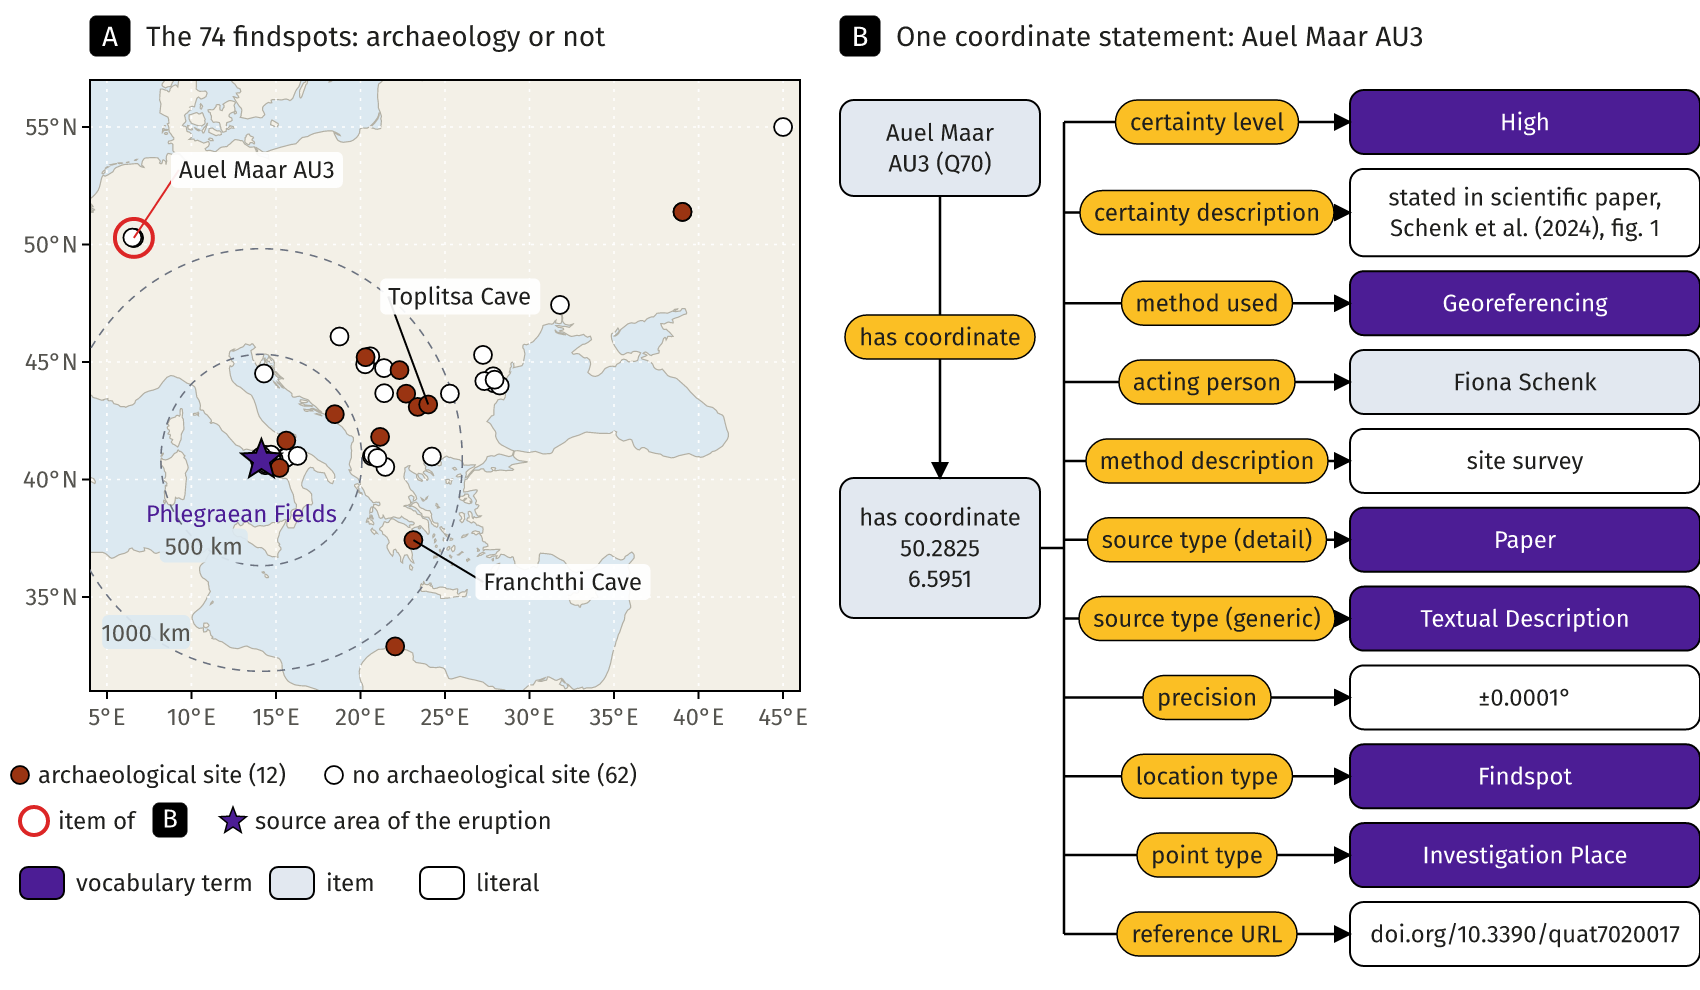
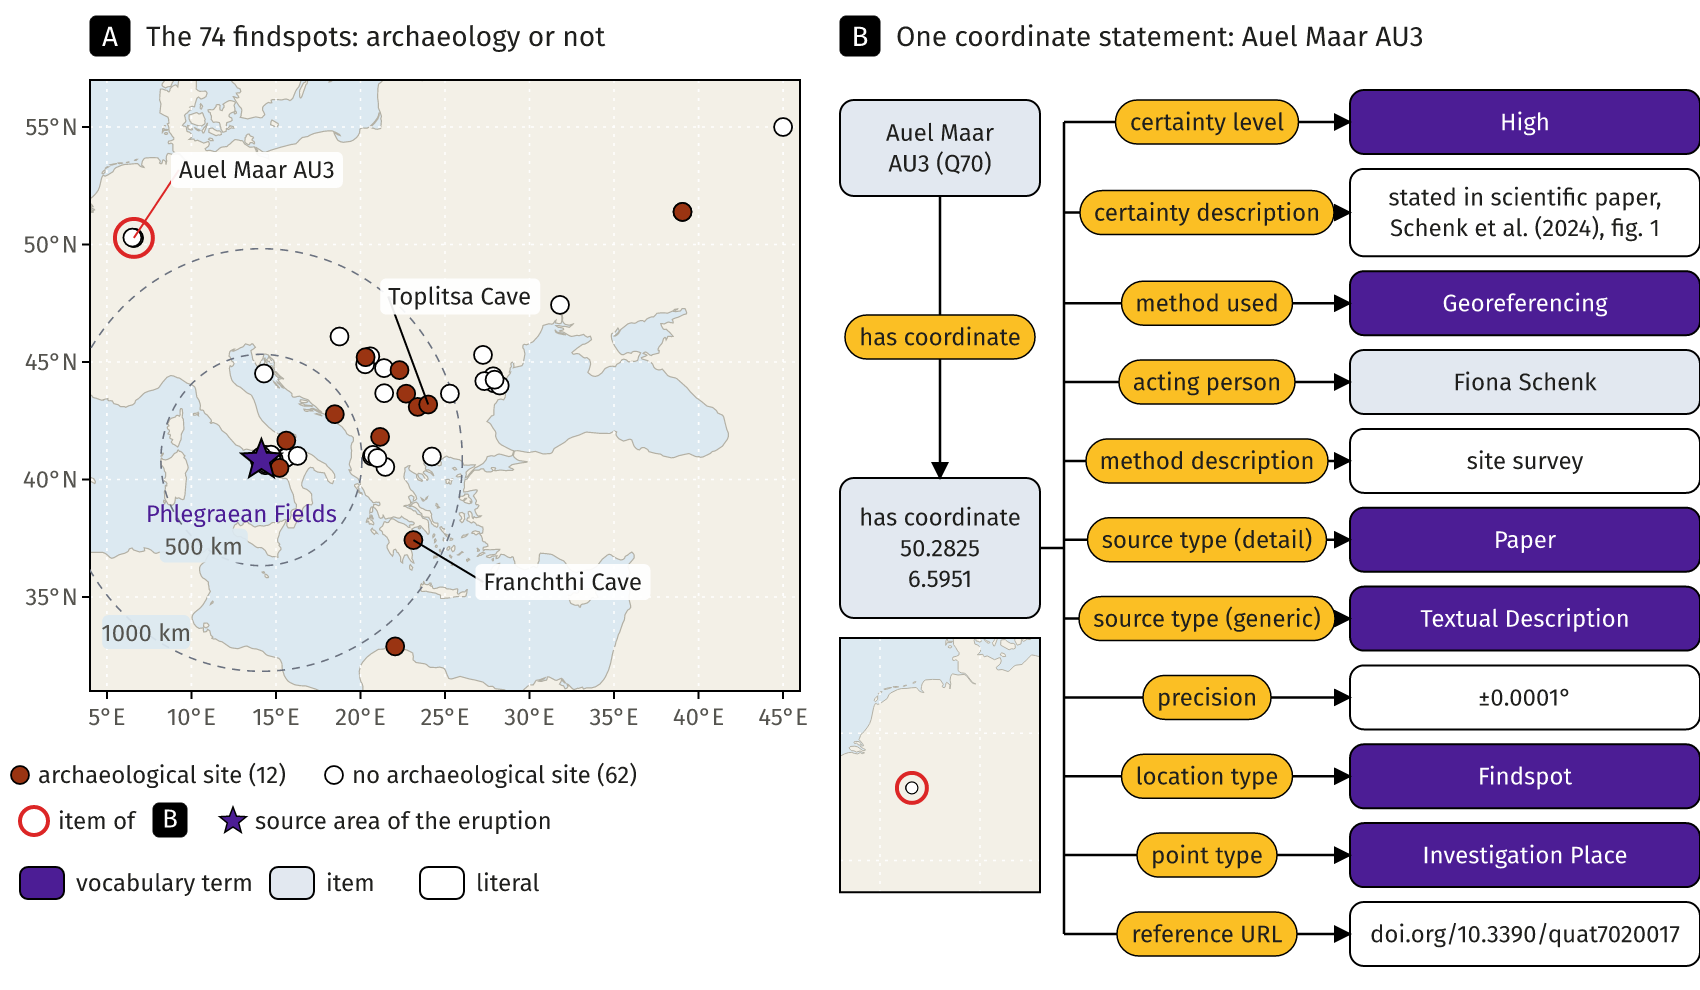
deRSE26: Fig. 4 minimap, Fig. 6 place taxonomy, STYLE.md (graphic concept)
Claude-Session: https://claude.ai/code/session_0145BdeBL6JEDb3HE12Py9VZ

Changed region(s): [[0.4676, 0.6364, 0.6235, 0.7576], [0.53, 0.7879, 0.5612, 0.8182]]

diff --git a/deRSE26/figures/figs.py b/deRSE26/figures/figs.py
@@ -186,6 +186,14 @@ def fig4():
     nm = it['labels']['en']['value']; part = nm.rsplit(' ', 1)
     f.box(cx0, 100, cw, 96, INST, [part[0], f'{part[1]} ({it["id"]})'], size=MIN_TYPE)
     f.box(cx0, cy_mid - 70, cw, 140, INST, [wb_label('P4'), f'{cv["latitude"]}', f'{cv["longitude"]}'], size=MIN_TYPE)
+    # minimap of the item (Central Europe), below the coordinate node
+    MX, MY, MW = cx0, cy_mid + 90, cw
+    mX, mY, mmh = basemap(f, MX, MY, MW, 3, 13, 47, 55, 51, 'mm4', 1.0, grid=(5, 4), labels=False)
+    for s_ in S:
+        if s_ is au3 or not (3 <= s_['lon'] <= 13 and 47 <= s_['lat'] <= 55): continue
+        f.o.append(f'<circle cx="{mX(s_["lon"]):.1f}" cy="{mY(s_["lat"]):.1f}" r="4.5" fill="{CLS if s_["arch"] else "#fff"}" stroke="#000" stroke-width="1"/>')
+    f.o.append(f'<circle cx="{mX(au3["lon"]):.1f}" cy="{mY(au3["lat"]):.1f}" r="15" fill="none" stroke="{RED}" stroke-width="4"/>')
+    f.o.append(f'<circle cx="{mX(au3["lon"]):.1f}" cy="{mY(au3["lat"]):.1f}" r="6" fill="{CLS if au3["arch"] else "#fff"}" stroke="#000" stroke-width="1.2"/>')
     f.arrow(cx0 + cw / 2, 196, cx0 + cw / 2, cy_mid - 70)
     f.chip(cx0 + cw / 2, (196 + cy_mid - 70) / 2, 'has coordinate')
     bus = cx0 + cw + 24
@@ -411,9 +419,54 @@ def fig7():
     f.o.append(f'<line x1="20" y1="{PH + 20}" x2="{W - 20}" y2="{PH + 20}" stroke="#d4d4d0" stroke-width="2"/>')
     f.done()
 
+# ---------------------------------------------------------------- Fig. 6: the place classes of the taxonomy
+def fig6():
+    onto = Graph()
+    base = '/home/claude/research-squirrel-engineers/geoscience-fairification-lod'
+    for p in ('ontology/geo_lod_core.ttl', 'ontology/crm_bridging.ttl', 'SISAL/rdf/sisal_ontology.ttl', 'EPICA/rdf/epica_ontology.ttl'):
+        onto.parse(os.path.join(os.environ.get('GEOLOD_DIR', base), p), format='turtle')
+    EX = {'geolod:': 'http://w3id.org/geo-lod/', 'crm:': 'http://www.cidoc-crm.org/cidoc-crm/', 'crmarchaeo:': 'http://www.cidoc-crm.org/extensions/crmarchaeo/', 'geo:': 'http://www.opengis.net/ont/geosparql#', 'fsl:': 'http://fuzzy-sl.squirrel.link/ontology/'}
+    def iri(q): return URIRef(next(v + q[len(k):] for k, v in EX.items() if q.startswith(k)))
+    RS = URIRef('http://www.w3.org/2000/01/rdf-schema#subClassOf')
+    f = Fig('fig6_place_taxonomy', 900)
+    nodes = {   # label: (x centre, y top, kind, lines)
+        'crm:E53_Place': (150, 30, 'x', None), 'geo:Feature': (470, 30, 'x', None), 'crm:E27_Site': (800, 30, 'x', None),
+        'geolod:SamplingLocation': (330, 250, 'c', None), 'geolod:CIFindspot': (1030, 250, 'c', None), 'fsl:Site': (1330, 250, 'x', None),
+        'geolod:DrillingSite': (125, 470, 'c', None), 'geolod:Borehole': (410, 470, 'c', None), 'geolod:Cave': (720, 470, 'c', None),
+        'geolod:CIArchaeologicalSite': (1030, 470, 'c', None),
+        'crmarchaeo:A2_Stratigraphic_Volume_Unit': (1480, 705, 'x', ['crmarchaeo:A2_', 'Stratigraphic_Volume_Unit']),
+        'geolod:ArchaeologicalCaveSite': (720, 720, 'c', None)}
+    edges = [('geolod:SamplingLocation', 'crm:E53_Place'), ('geolod:SamplingLocation', 'geo:Feature'), ('geolod:SamplingLocation', 'crm:E27_Site'),
+             ('geolod:CIFindspot', 'crm:E27_Site'), ('fsl:Site', 'crm:E27_Site'),
+             ('geolod:DrillingSite', 'geolod:SamplingLocation'), ('geolod:Borehole', 'geolod:SamplingLocation'), ('geolod:Cave', 'geolod:SamplingLocation'),
+             ('geolod:ArchaeologicalCaveSite', 'geolod:Cave'), ('geolod:ArchaeologicalCaveSite', 'crmarchaeo:A2_Stratigraphic_Volume_Unit'),
+             ('geolod:CIArchaeologicalSite', 'geolod:CIFindspot'), ('geolod:CIArchaeologicalSite', 'crmarchaeo:A2_Stratigraphic_Volume_Unit')]
+    for a, b in edges:
+        assert (iri(a), RS, iri(b)) in onto, (a, b)
+    geom = {}
+    for lab, (cx, y, kind, lines) in nodes.items():
+        ls = lines or [lab]; geom[lab] = (cx, y, max(tw(l, MIN_TYPE) for l in ls) + 44, 80 if len(ls) == 1 else 110)
+    def edge_pt(g_, tx, ty):                          # point where the line from the centre of g_ towards (tx, ty) leaves the box
+        cx, y, w, h = g_; cy = y + h / 2; dx, dy = tx - cx, ty - cy
+        k = min((w / 2) / abs(dx) if dx else 1e9, (h / 2) / abs(dy) if dy else 1e9)
+        return cx + dx * k, cy + dy * k
+    for a, b in edges:
+        ga, gb = geom[a], geom[b]
+        x1, y1 = edge_pt(ga, gb[0], gb[1] + gb[3] / 2); x2, y2 = edge_pt(gb, ga[0], ga[1] + ga[3] / 2)
+        t_ = 0.62 if a == 'geolod:Borehole' else 0.5
+        f.arrow(x1, y1, x2, y2); f.chip(x1 + (x2 - x1) * t_, y1 + (y2 - y1) * t_, 'subClassOf')
+    for lab, (cx, y, w, h) in geom.items():
+        k = nodes[lab][2]
+        f.box(cx - w / 2, y, w, h, CLS if k == 'c' else '#fff', nodes[lab][3] or [lab], tc='#fff' if k == 'c' else INK)
+    ly = 850
+    f.o.append(f'<rect x="20" y="{ly - 16}" width="44" height="32" rx="8" fill="{CLS}" stroke="#000" stroke-width="2"/>'); f.text(76, ly + 8, 'class of the geo-lod ontologies', MIN_TYPE, 400, INK, 'start')
+    f.o.append(f'<rect x="560" y="{ly - 16}" width="44" height="32" rx="8" fill="#fff" stroke="#000" stroke-width="2"/>'); f.text(616, ly + 8, 'class of CIDOC CRM, CRMarchaeo, GeoSPARQL or fuzzy-sl', MIN_TYPE, 400, INK, 'start')
+    f.done()
+
 if __name__ == '__main__':
     want = sys.argv[1:] or ['fig4']
     if 'fig4' in want: fig4()
     if 'z3' in want: z3()
     if 'z2' in want: z2()
     if 'fig7' in want: fig7()
+    if 'fig6' in want: fig6()

diff --git a/deRSE26/figures/STYLE.md b/deRSE26/figures/STYLE.md
@@ -1,0 +1,48 @@
+# Graphic concept for the figures of "From Relations to Graphs" (deRSE26 / ECEASST)
+
+One concept for every figure that is made under our own hand (Fig. 3, 4, 6, 7, 10, z2, z3 and later ones). Figures taken from
+other projects keep their own look and are only marked in the caption. Everything below is implemented in `figs.py`; a new figure
+uses these building blocks instead of inventing its own.
+
+## Page and type
+- Width 1700 px = 420 pt text width of the ECEASST class; height as needed. White background, no header, no footer, no title inside the image (the caption carries it).
+- Fira Sans 400/500 only (`fonts/`). Minimum type 24 px (about 5.9 pt in print); `Fig.text` stops the run below that and on overflow.
+- PNG goes into LaTeX (the SVG names Fira Sans without embedding it). Output of every run: `out/<name>.svg` and `.png`.
+- Language: English, British spelling. No abbreviations that the paper does not introduce.
+
+## Panels
+- A panel title is a black rounded square (40 x 40 px, radius 6) with a white upper-case letter and a bold 28 px title next to it.
+- Texts that refer to a panel use the same badge (never "panel A" as running text inside the image).
+- Several panels: separated by a thin grey line (#d4d4d0); same structure in mirrored panels so that differences show.
+
+## Colour roles (semantic, not decorative)
+| Role | Fill | Text |
+|---|---|---|
+| Instance, item, node of the data | #e2e8f0 (pastel grey) | black |
+| Class | #9a3412 (dark orange) | white |
+| Vocabulary term, controlled value | #4c1d95 (dark purple) | white |
+| Literal, plain value | white | black |
+| Property or edge label | #fbbf24 (amber chip) | black |
+| Highlight (the thing the figure is about) | red #dc2626 outline, 4 px | |
+
+Edge labels are always amber chips centred on the middle of the arrow, never beside it. Arrows black, 2.5 px, filled head.
+One bus line fans out to many values; chips sit on the branches.
+
+## Maps
+- Sea #dce9f1, land #f3f0e7, coast #b3b0a4, base map Natural Earth (public domain), plate carree scaled by cos(latitude) of the map centre.
+- Large maps: dashed white graticule, degree labels outside the frame (10 or 5 degrees), black frame with ticks.
+- Minimaps (below an instance node): same base map, graticule without labels, all points small, the item of the panel ringed in red.
+- Point colour follows the same roles: dark orange = archaeological site (class), white = other findspot, amber = fuzzy-sl Wikibase statement, purple star = special place (Phlegraean Fields).
+- Callouts: white label with 8 px padding and a thin black leader line; never over the item they name.
+
+## Data discipline
+- Every value in a figure is read from the data (graph, Wikibase copy, CSV) by the script; assertions check that sources agree (e.g. AU3 in graph and Wikibase). Nothing is typed by hand except layout text.
+- Data copies live in `data/` with their commit or date in the README; fetch scripts (`fetch_wd.py`, `prep_points.py`) document how they were made.
+- Counts in captions come from the same script run as the figure.
+
+## Caption and licence
+- Caption in `captions.yaml`, British English, panels cited as (A), (B); colours explained if they carry meaning; the licence line names the authors and CC BY 4.0, third-party data and base map named.
+- `replaces` names the figure of the submitted PDF, so the change list can point to it.
+
+## Checklist before a figure is final
+1. `python figs.py <name>` runs without overflow or type errors. 2. Looked at in full size and at 100 % print width. 3. Colours follow the roles above. 4. Caption, README row and tracker entry written. 5. Committed and pushed to `wikibase-static-help`.

diff --git a/deRSE26/figures/README.md b/deRSE26/figures/README.md
@@ -32,3 +32,4 @@ Planned: Fig. 7, Fig. 6, Fig. 3, Fig. 10, and the additions Z2 (one findspot in 
 | `z2_one_stone_five_models` | new (Section 3 or 4) | Ogham stone Coumeenole North as Wikidata, fuzzy-sl Wikibase, RDF/GeoSPARQL, LPG, HIN | `data/wb/Q131.json` etc., `data/wd/` (built by `fetch_wd.py`, needs internet) |
 | `z3_showcase_map` | new (Section 5) | map of the showcase datasets (fuzzy-sl Wikibase vs. bespoke RDF pipeline) | `data/showcase_points.csv` (built by `prep_points.py` from bb-5kbc-sites, geoscience-fairification-lod/SISAL and wb-fuzzysl-static), `data/ne_50m_land.geojson` |
 | `fig7_ci_instances` | Fig. 7 | Toplitsa Cave and Franchthi Cave (ci:cisite_44, _45) as instances, read from the graph | `data/ci_findspots.ttl` |
+| `fig6_place_taxonomy` | Fig. 6 (slice) | place classes with their CRM, CRMarchaeo, GeoSPARQL anchors; every arrow is checked against the ontology files | `ontology/*.ttl`, `SISAL/rdf/sisal_ontology.ttl`, `EPICA/rdf/epica_ontology.ttl` of GeoScience-FAIRification-LOD (clone path in `GEOLOD_DIR`, default Linux path in `figs.py`) |
